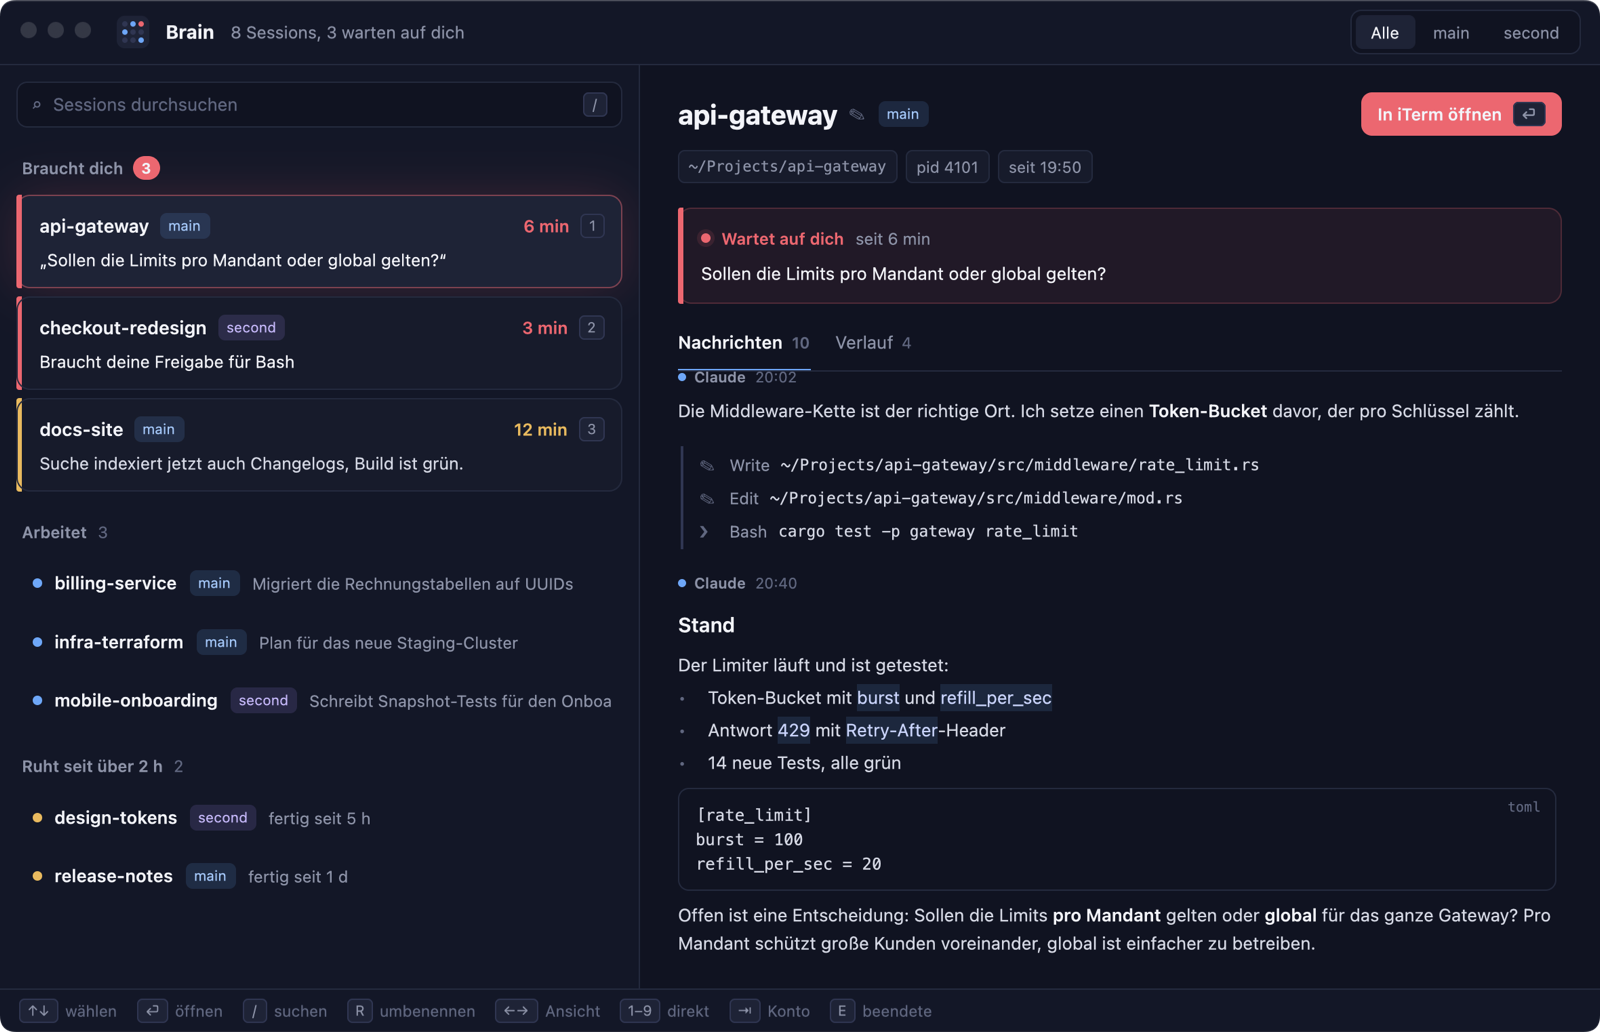
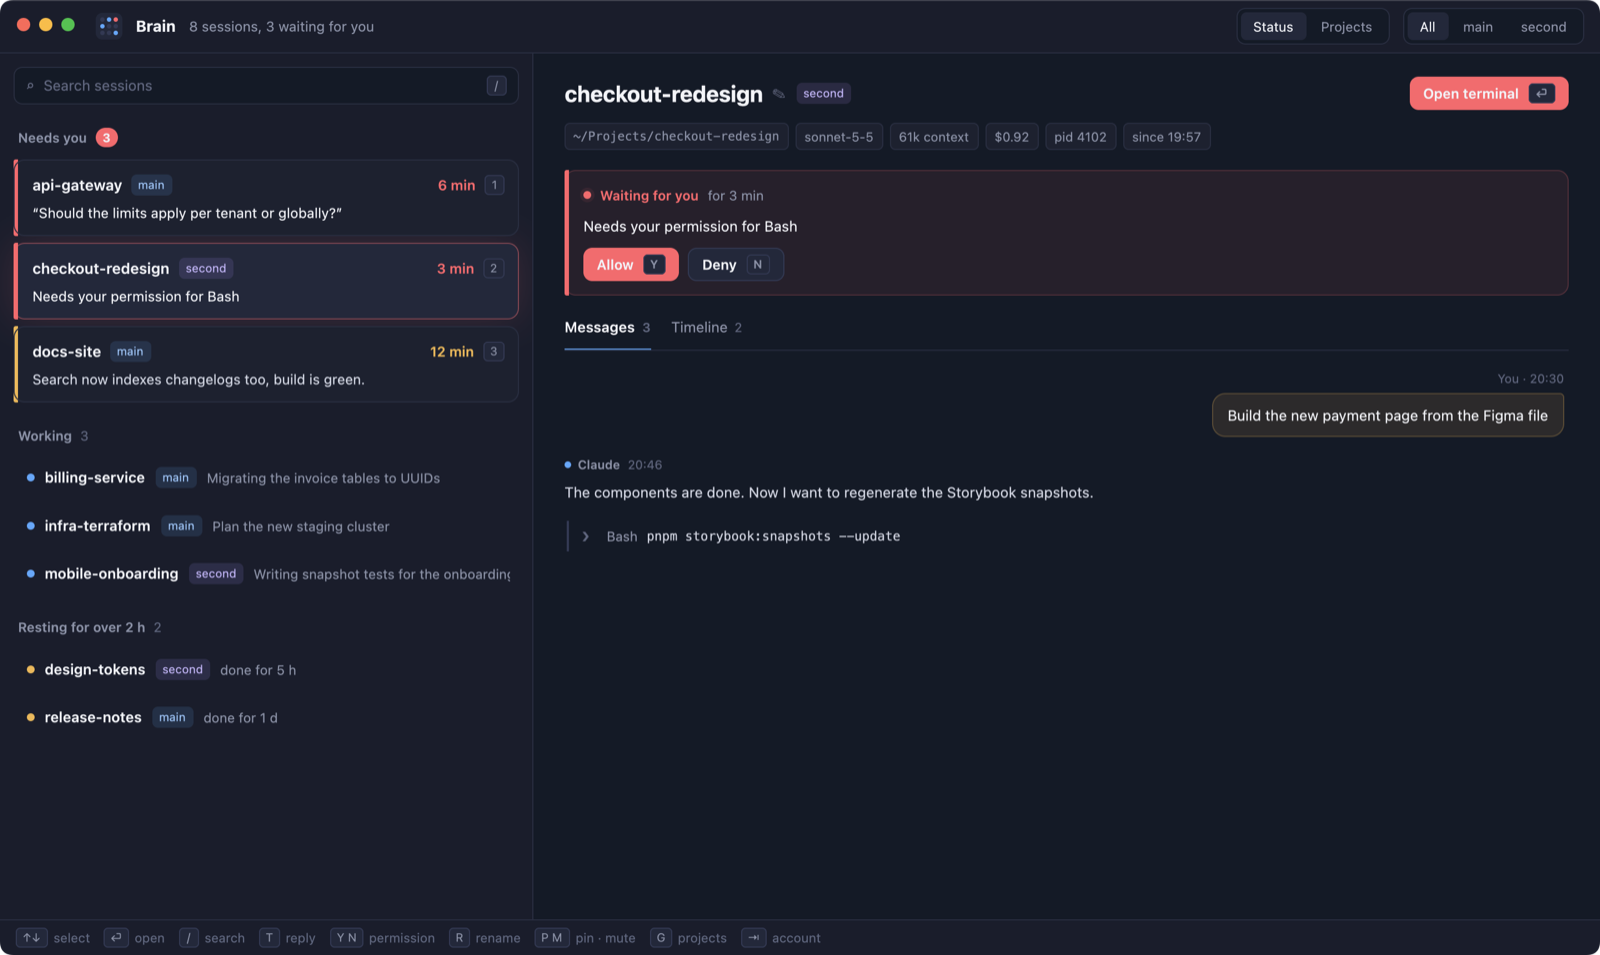
Release 0.2.0: English UI, README screenshot, cleaner harness notes

diff --git a/crates/brain-app/src/widgets.rs b/crates/brain-app/src/widgets.rs
@@ -34,6 +34,10 @@ pub fn plain(text: &str) -> String {
     if text.starts_with("Claude is waiting for your input") {
         return t("Wartet auf deine Eingabe", "Waiting for your input").into();
     }
+    // Harness prompts (subagent hand-backs, task notifications) are stored as `[note]`.
+    if let Some(inner) = text.strip_prefix('[') {
+        return note(inner.strip_suffix(']').unwrap_or(inner));
+    }
     note(&text)
 }
 

diff --git a/docs/superpowers/specs/2026-10-03-ten-improvements.md b/docs/superpowers/specs/2026-10-03-ten-improvements.md
@@ -36,3 +36,11 @@ pub fn open_new(cwd: &str, config_dir: Option<&str>, command: &str) -> Outcome; 
 ```
 
 The pure parts (process-tree classification, tmux output parsing, script building) are unit-tested.
+
+## Outcome (2026-10-03)
+
+All ten shipped in 0.2.0. Verified live: Allow (Return) and Deny (Esc) on real permission
+prompts, replying with `T`, terminal adapters for iTerm2, Terminal.app and tmux (VS Code/Cursor
+only by fixture), the transcript ending a stale permission state after a denial. Findings on
+the way: the Stop hook payload, `system/turn_duration` and `cost-state` transcript entries,
+`shell` status; iTerm2 split panes in background tabs need tab → session → window selection.

diff --git a/README.md b/README.md
@@ -9,12 +9,13 @@ to the session's terminal with one key.
 
 https://github.com/user-attachments/assets/dc7c6023-01a2-48a5-aaae-39ee590d54b0
 
-*A three-minute tour, narrated. Brain runs on made-up demo sessions here.*
+*A three-minute tour of version 0.1 (German interface), narrated. Brain runs on made-up demo
+sessions here.*
 
 ![Brain with demo data](docs/screenshot.png)
 
 Built with [GPUI](https://gpui.rs), the GPU-accelerated UI framework from Zed. The interface
-is in German.
+follows your macOS language: English or German.
 
 ## What it does
 
